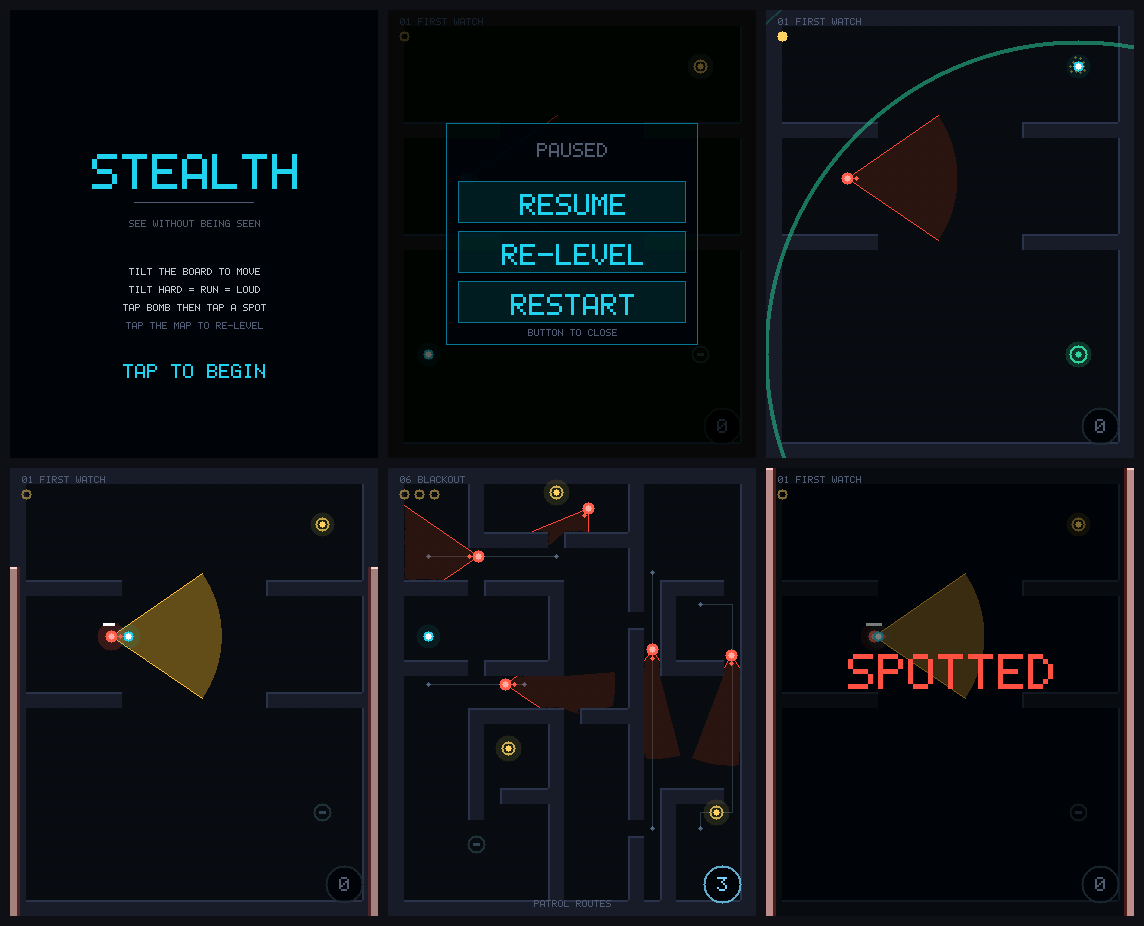
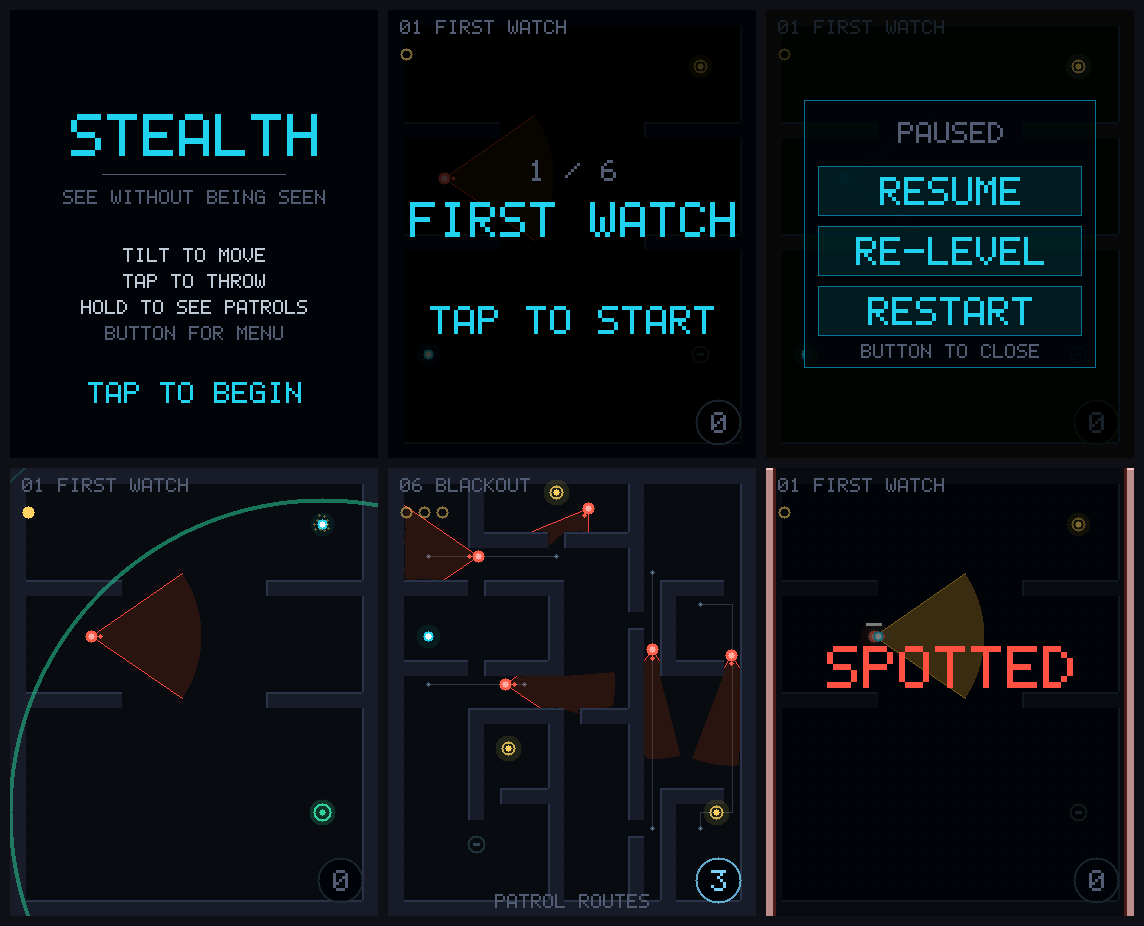
Enlarge every font, and correct the stale title-screen instructions
Text throughout is one to two scale steps larger:

  STEALTH        5x -> 6x     level name   4x -> 5x (auto-fit)
  SPOTTED        5x -> 6x     TAP TO START 3x -> 4x
  CLEAR          4x -> 6x     TAP TO RETRY 3x -> 4x
  ALL CLEAR      4x -> 6x     menu items   3x -> 4x
  LEVELLED       3x -> 4x     PAUSED       2x -> 3x
  bomb readout   2x -> 3x     HUD label    1x -> 2x
  all 1x body text            -> 2x

The toast, menu and bomb readout panels grew to match, and the guard's
investigating marker went 1x -> 2x.

Added gfx_text_fit_scale(): the level name is drawn as large as it will go,
and at 5x the longest existing name clears the panel by six pixels. Rather
than leave that as a trap for the next name someone writes, the scale now
steps down automatically when a string would overflow.

Also fixes the title screen, which still described the old control scheme -
it advertised arming a bomb and tapping the map to re-level, neither of which
is how the game works since the previous change. It now reads: tilt to move,
tap to throw, hold to see patrols, button for menu.

diff --git a/main/render.c b/main/render.c
@@ -221,7 +221,7 @@ static void draw_guard_body(gfx_surf_t *s, const game_t *g, const guard_t *gd)
     }
 
     if (gd->mode == GM_LOOK || gd->mode == GM_INVESTIGATE) {
-        gfx_text(s, cx - 2, cy - (int)GUARD_R - 16, "?", COL_CONE_HOT, 1);
+        gfx_text(s, cx - 3, cy - (int)GUARD_R - 24, "?", COL_CONE_HOT, 2);
     }
 }
 
@@ -289,32 +289,30 @@ static void draw_overlay(gfx_surf_t *s, const game_t *g)
     switch (g->phase) {
     case GS_TITLE: {
         gfx_fill_rect(s, 0, 0, PLAY_W, PLAY_H, COL_BG);
-        gfx_text_centered(s, PLAY_W / 2, 144, "STEALTH", COL_PLAYER, 5);
-        gfx_fill_rect(s, PLAY_W / 2 - 60, 192, 120, 1, COL_TEXT_DIM);
-        gfx_text_centered(s, PLAY_W / 2, 210, "SEE WITHOUT BEING SEEN", COL_TEXT_DIM, 1);
+        gfx_text_centered(s, PLAY_W / 2, 104, "STEALTH", COL_PLAYER, 6);
+        gfx_fill_rect(s, PLAY_W / 2 - 92, 164, 184, 1, COL_TEXT_DIM);
+        gfx_text_centered(s, PLAY_W / 2, 180, "SEE WITHOUT BEING SEEN", COL_TEXT_DIM, 2);
 
-        gfx_text_centered(s, PLAY_W / 2, 258, "TILT THE BOARD TO MOVE", COL_TEXT, 1);
-        gfx_text_centered(s, PLAY_W / 2, 276, "TILT HARD = RUN = LOUD", COL_TEXT, 1);
-        gfx_text_centered(s, PLAY_W / 2, 294, "TAP BOMB THEN TAP A SPOT", COL_TEXT, 1);
-        gfx_text_centered(s, PLAY_W / 2, 312, "TAP THE MAP TO RE-LEVEL", COL_TEXT_DIM, 1);
+        gfx_text_centered(s, PLAY_W / 2, 238, "TILT TO MOVE", COL_TEXT, 2);
+        gfx_text_centered(s, PLAY_W / 2, 264, "TAP TO THROW", COL_TEXT, 2);
+        gfx_text_centered(s, PLAY_W / 2, 290, "HOLD TO SEE PATROLS", COL_TEXT, 2);
+        gfx_text_centered(s, PLAY_W / 2, 316, "BUTTON FOR MENU", COL_TEXT_DIM, 2);
 
         if (fmodf(g->phase_t, 1.2f) < 0.7f) {
-            gfx_text_centered(s, PLAY_W / 2, 354, "TAP TO BEGIN", COL_PLAYER, 2);
+            gfx_text_centered(s, PLAY_W / 2, 372, "TAP TO BEGIN", COL_PLAYER, 3);
         }
         break;
     }
 
     case GS_BRIEF: {
         dim(s, 24);
-        // Just the level: number, name, and the prompt. The briefing used to
-        // carry a hint line and a tally in 5px text, which is unreadable at
-        // arm's length on a 1.8in panel.
         snprintf(buf, sizeof(buf), "%d / %d", g->level_idx + 1, g_level_count);
-        gfx_text_centered(s, PLAY_W / 2, 168, buf, COL_TEXT_DIM, 2);
-        gfx_text_centered(s, PLAY_W / 2, 200, g->lvl->name, COL_PLAYER, 4);
+        gfx_text_centered(s, PLAY_W / 2, 150, buf, COL_TEXT_DIM, 3);
+        gfx_text_centered(s, PLAY_W / 2, 192, g->lvl->name, COL_PLAYER,
+                          gfx_text_fit_scale(g->lvl->name, PLAY_W - 16, 5));
 
         if (fmodf(g->phase_t, 1.2f) < 0.7f) {
-            gfx_text_centered(s, PLAY_W / 2, 300, "TAP TO START", COL_PLAYER, 3);
+            gfx_text_centered(s, PLAY_W / 2, 296, "TAP TO START", COL_PLAYER, 4);
         }
         break;
     }
@@ -325,35 +323,35 @@ static void draw_overlay(gfx_surf_t *s, const game_t *g)
                            (uint32_t)(g->flash * 18.0f));
         }
         dim(s, 16);
-        gfx_text_centered(s, PLAY_W / 2, 186, "SPOTTED", COL_ALERT, 5);
+        gfx_text_centered(s, PLAY_W / 2, 178, "SPOTTED", COL_ALERT, 6);
         if (g->phase_t > 1.1f && fmodf(g->phase_t, 1.2f) < 0.7f) {
-            gfx_text_centered(s, PLAY_W / 2, 272, "TAP TO RETRY", COL_TEXT, 3);
+            gfx_text_centered(s, PLAY_W / 2, 268, "TAP TO RETRY", COL_TEXT, 4);
         }
         break;
     }
 
     case GS_CLEAR: {
         dim(s, 20);
-        gfx_text_centered(s, PLAY_W / 2, 184, "CLEAR", COL_EXIT, 4);
+        gfx_text_centered(s, PLAY_W / 2, 152, "CLEAR", COL_EXIT, 6);
         snprintf(buf, sizeof(buf), "%d:%04.1f", (int)(g->level_time / 60.0f),
                  fmodf(g->level_time, 60.0f));
-        gfx_text_centered(s, PLAY_W / 2, 234, buf, COL_TEXT, 2);
+        gfx_text_centered(s, PLAY_W / 2, 216, buf, COL_TEXT, 3);
         if (g->phase_t > 0.8f && fmodf(g->phase_t, 1.2f) < 0.7f) {
-            gfx_text_centered(s, PLAY_W / 2, 294,
+            gfx_text_centered(s, PLAY_W / 2, 290,
                               (g->level_idx + 1 >= g_level_count) ? "TAP TO FINISH"
                                                                   : "TAP TO CONTINUE",
-                              COL_PLAYER, 2);
+                              COL_PLAYER, 3);
         }
         break;
     }
 
     case GS_WIN: {
         gfx_fill_rect(s, 0, 0, PLAY_W, PLAY_H, COL_BG);
-        gfx_text_centered(s, PLAY_W / 2, 174, "ALL CLEAR", COL_EXIT, 4);
-        gfx_text_centered(s, PLAY_W / 2, 234, "EVERY HOSTAGE HOME", COL_TEXT, 1);
-        gfx_text_centered(s, PLAY_W / 2, 252, "NOBODY SAW A THING", COL_TEXT, 1);
+        gfx_text_centered(s, PLAY_W / 2, 138, "ALL CLEAR", COL_EXIT, 6);
+        gfx_text_centered(s, PLAY_W / 2, 212, "EVERY HOSTAGE HOME", COL_TEXT, 2);
+        gfx_text_centered(s, PLAY_W / 2, 238, "NOBODY SAW A THING", COL_TEXT, 2);
         if (fmodf(g->phase_t, 1.2f) < 0.7f) {
-            gfx_text_centered(s, PLAY_W / 2, 324, "TAP FOR TITLE", COL_PLAYER, 2);
+            gfx_text_centered(s, PLAY_W / 2, 312, "TAP FOR TITLE", COL_PLAYER, 3);
         }
         break;
     }

diff --git a/main/hud.c b/main/hud.c
@@ -17,19 +17,19 @@
 #define HOLD_REVEAL_T 0.35f   // hold past this and it is a reveal, not a throw
 #define LEVEL_TOAST_T 1.1f
 
-#define TOAST_W       208
-#define TOAST_H       78
+#define TOAST_W       268
+#define TOAST_H       104
 
-#define BOMB_PIP_X    (PLAY_W - 34)
-#define BOMB_PIP_Y    (PLAY_H - 32)
-#define BOMB_PIP_R    19
+#define BOMB_PIP_X    (PLAY_W - 38)
+#define BOMB_PIP_Y    (PLAY_H - 36)
+#define BOMB_PIP_R    23
 
-#define MENU_W        252
-#define MENU_H        222
+#define MENU_W        292
+#define MENU_H        268
 #define MENU_X        ((PLAY_W - MENU_W) / 2)
 #define MENU_Y        ((PLAY_H - MENU_H) / 2)
-#define MENU_ROW_H    50
-#define MENU_ROW0_Y   (MENU_Y + 58)
+#define MENU_ROW_H    60
+#define MENU_ROW0_Y   (MENU_Y + 66)
 #define MENU_ITEMS    3
 
 static const char *s_menu_labels[MENU_ITEMS] = {
@@ -183,14 +183,14 @@ static void draw_toast(gfx_surf_t *s)
 
     gfx_blend_rect(s, x, y, TOAST_W, TOAST_H, RGB565(6, 10, 16), (uint32_t)(26.0f * f));
     gfx_rect_frame(s, x, y, TOAST_W, TOAST_H, 1, COL_PLAYER_D);
-    gfx_text_centered(s, PLAY_W / 2, y + 20, "LEVELLED", COL_PLAYER, 3);
-    gfx_text_centered(s, PLAY_W / 2, y + 52, "TILT NEUTRAL SET", COL_TEXT_DIM, 1);
+    gfx_text_centered(s, PLAY_W / 2, y + 22, "LEVELLED", COL_PLAYER, 4);
+    gfx_text_centered(s, PLAY_W / 2, y + 66, "TILT NEUTRAL SET", COL_TEXT_DIM, 2);
 }
 
 static void draw_reveal_label(gfx_surf_t *s, const game_t *g)
 {
     if (!g->reveal_paths) return;
-    gfx_text_centered(s, PLAY_W / 2, PLAY_H - 16, "PATROL ROUTES", COL_TEXT_DIM, 1);
+    gfx_text_centered(s, PLAY_W / 2, PLAY_H - 22, "PATROL ROUTES", COL_TEXT_DIM, 2);
 }
 
 static void draw_menu(gfx_surf_t *s, const game_t *g)
@@ -200,19 +200,19 @@ static void draw_menu(gfx_surf_t *s, const game_t *g)
     gfx_blend_rect(s, 0, 0, PLAY_W, PLAY_H, RGB565(0, 0, 0), 20);
     gfx_blend_rect(s, MENU_X, MENU_Y, MENU_W, MENU_H, RGB565(6, 10, 16), 30);
     gfx_rect_frame(s, MENU_X, MENU_Y, MENU_W, MENU_H, 1, COL_PLAYER_D);
-    gfx_text_centered(s, PLAY_W / 2, MENU_Y + 20, "PAUSED", COL_TEXT_DIM, 2);
+    gfx_text_centered(s, PLAY_W / 2, MENU_Y + 22, "PAUSED", COL_TEXT_DIM, 3);
 
     for (int i = 0; i < MENU_ITEMS; i++) {
         const int ry = MENU_ROW0_Y + i * MENU_ROW_H;
-        gfx_blend_rect(s, MENU_X + 12, ry, MENU_W - 24, MENU_ROW_H - 8,
+        gfx_blend_rect(s, MENU_X + 14, ry, MENU_W - 28, MENU_ROW_H - 10,
                        COL_PLAYER, 4);
-        gfx_rect_frame(s, MENU_X + 12, ry, MENU_W - 24, MENU_ROW_H - 8, 1,
+        gfx_rect_frame(s, MENU_X + 14, ry, MENU_W - 28, MENU_ROW_H - 10, 1,
                        COL_PLAYER_D);
-        gfx_text_centered(s, PLAY_W / 2, ry + 13, s_menu_labels[i], COL_PLAYER, 3);
+        gfx_text_centered(s, PLAY_W / 2, ry + 11, s_menu_labels[i], COL_PLAYER, 4);
     }
 
-    gfx_text_centered(s, PLAY_W / 2, MENU_Y + MENU_H - 16,
-                      "BUTTON TO CLOSE", COL_TEXT_DIM, 1);
+    gfx_text_centered(s, PLAY_W / 2, MENU_Y + MENU_H - 24,
+                      "BUTTON TO CLOSE", COL_TEXT_DIM, 2);
 }
 
 void hud_render(gfx_surf_t *s, const game_t *g)
@@ -225,12 +225,12 @@ void hud_render(gfx_surf_t *s, const game_t *g)
 
         // Top-left: level, then the hostage tally under it.
         snprintf(buf, sizeof(buf), "%02d %s", g->level_idx + 1, g->lvl->name);
-        gfx_text(s, 12, 8, buf, COL_TEXT_DIM, 1);
+        gfx_text(s, 12, 10, buf, COL_TEXT_DIM, 2);
 
         for (int i = 0; i < g->hostage_count; i++) {
-            const int cx = 16 + i * 15, cy = 26;
-            if (i < g->rescued) gfx_fill_circle(s, cx, cy, 5, COL_HOSTAGE);
-            else                gfx_ring(s, cx, cy, 5, 2, COL_HOSTAGE, 16);
+            const int cx = 18 + i * 18, cy = 44;
+            if (i < g->rescued) gfx_fill_circle(s, cx, cy, 6, COL_HOSTAGE);
+            else                gfx_ring(s, cx, cy, 6, 2, COL_HOSTAGE, 16);
         }
 
         // Bottom-right: bombs remaining. A readout, not a control - throwing
@@ -240,7 +240,7 @@ void hud_render(gfx_surf_t *s, const game_t *g)
         gfx_blend_circle(s, BOMB_PIP_X, BOMB_PIP_Y, BOMB_PIP_R, RGB565(4, 6, 10), 20);
         gfx_ring(s, BOMB_PIP_X, BOMB_PIP_Y, BOMB_PIP_R, 2, bc, usable ? 26 : 12);
         snprintf(buf, sizeof(buf), "%d", g->bombs_left);
-        gfx_text_centered(s, BOMB_PIP_X, BOMB_PIP_Y - 7, buf, bc, 2);
+        gfx_text_centered(s, BOMB_PIP_X, BOMB_PIP_Y - 10, buf, bc, 3);
     }
 
     draw_toast(s);

diff --git a/tools/host/preview.c b/tools/host/preview.c
@@ -229,12 +229,30 @@ int main(int argc, char **argv)
     printf("caught screen: phase=%d (4 = GS_CAUGHT expected 3)\n", (int)g.phase);
 
     reset_inputs();
-    // --- the centred re-level popup ---
+    // --- the centred re-level popup, now reached through the menu ---
+    reset_inputs();
     game_load_level(&g, 0);
     tap(&g, 184, 320);
-    sim(&g, 1.0f, NULL);
-    tap(&g, 184, 220);              // short tap on the map = re-level
-    sim(&g, 0.15f, NULL);
+    sim(&g, 0.5f, NULL);
+    {
+        game_input_t in = {0};
+        touch_state_t ts = {0};
+        const float dt = 1.0f / 60.0f;
+        hud_build_input(&in, &ts, 0.0f, 0.0f, true, &g, dt);   // button opens
+        game_update(&g, dt, &in);
+
+        // Tap the RE-LEVEL row: menu is centred, second row of three.
+        const int menu_y = (448 - 268) / 2;
+        const int row1_y = menu_y + 66 + 60 + 20;
+        ts.down = true; ts.pressed = true; ts.x = 184; ts.y = (int16_t)row1_y;
+        hud_build_input(&in, &ts, 0.0f, 0.0f, false, &g, dt);
+        game_update(&g, dt, &in);
+        printf("relevel via menu: recalibrate=%d menu_open=%d\n",
+               in.recalibrate ? 1 : 0, g.menu_open ? 1 : 0);
+
+        memset(&ts, 0, sizeof(ts));
+        sim(&g, 0.12f, NULL);
+    }
     render_to_fb(&g);
     snprintf(path, sizeof(path), "%s/10_levelled.ppm", outdir);
     write_ppm(path);

diff --git a/main/gfx.h b/main/gfx.h
@@ -72,6 +72,12 @@ int  gfx_text (gfx_surf_t *s, int x, int y, const char *str, uint16_t c, int sca
 int  gfx_text_w(const char *str, int scale);
 void gfx_text_centered(gfx_surf_t *s, int cx, int y, const char *str, uint16_t c, int scale);
 
+// Largest scale up to max_scale at which str fits in max_w. Level names are
+// drawn as large as they will go, and the longest one clears the panel by
+// only a few pixels - this keeps a longer name from running off the edge
+// rather than relying on nobody ever writing one.
+int  gfx_text_fit_scale(const char *str, int max_w, int max_scale);
+
 extern const uint8_t gfx_font5x7[][5];
 
 #ifdef __cplusplus

diff --git a/main/gfx.c b/main/gfx.c
@@ -269,3 +269,11 @@ void gfx_text_centered(gfx_surf_t *s, int cx, int y, const char *str, uint16_t c
 {
     gfx_text(s, cx - gfx_text_w(str, scale) / 2, y, str, c, scale);
 }
+
+int gfx_text_fit_scale(const char *str, int max_w, int max_scale)
+{
+    for (int sc = max_scale; sc > 1; sc--) {
+        if (gfx_text_w(str, sc) <= max_w) return sc;
+    }
+    return 1;
+}
